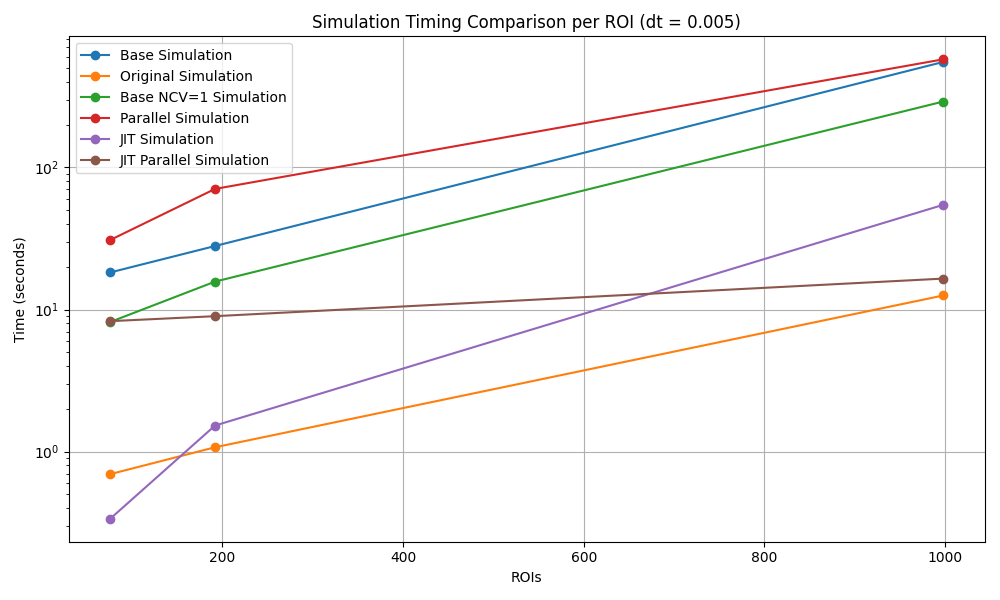
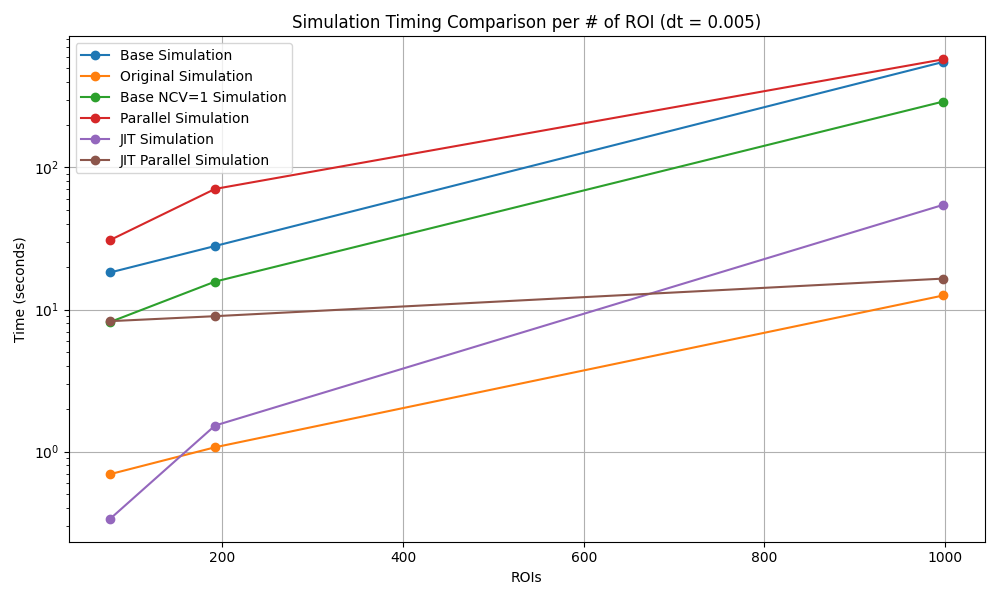
Update plot title for clarity in performance comparison

Changed region(s): [[0.279, 0.0, 0.775, 0.06]]

diff --git a/plot_performance_comparison.py b/plot_performance_comparison.py
@@ -18,7 +18,7 @@ plt.plot(roi_values, timings_jit_parallel, label="JIT Parallel Simulation", mark
 plt.xlabel("ROIs")  # type: ignore
 plt.ylabel("Time (seconds)")  # type: ignore
 plt.yscale("log")  # type: ignore
-plt.title("Simulation Timing Comparison per ROI (dt = 0.005)")  # type: ignore
+plt.title("Simulation Timing Comparison per # of ROI (dt = 0.005)")  # type: ignore
 plt.legend()  # type: ignore
 plt.grid()  # type: ignore
 plt.tight_layout()  # type: ignore
